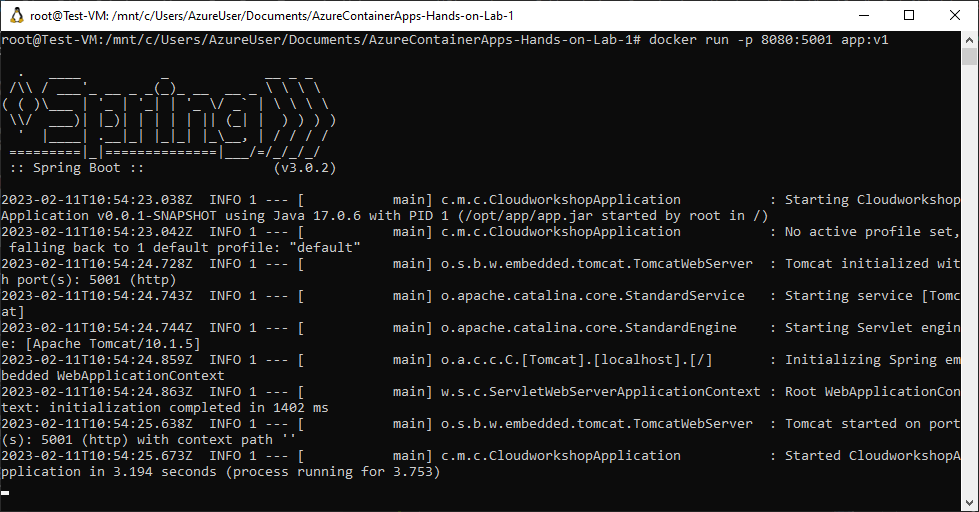
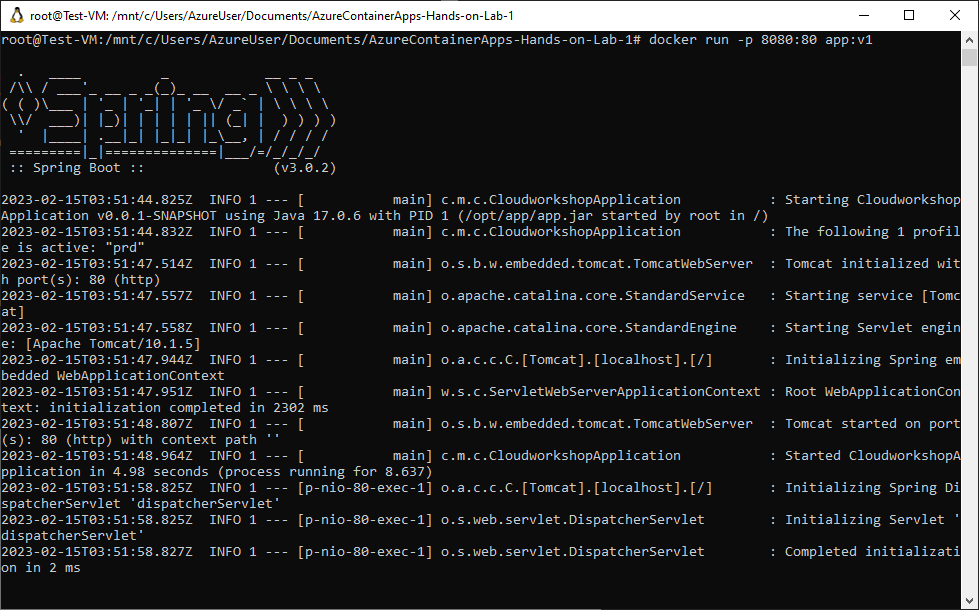
Exe4まで完了

diff --git a/src/Java/Web/src/main/resources/templates/home/index.html b/src/Java/Web/src/main/resources/templates/home/index.html
@@ -10,8 +10,8 @@
                     SpringBoot</a>.</p>
 
             <br />
-            <img src="images/blue_small.gif" />
-            <p>Version 1</p>
+            <img src="images/yellow_small.gif" />
+            <p>Version 2</p>
         </div>
     </div>
 </body>

diff --git a/HOL step-by-step Guide.md b/HOL step-by-step Guide.md
@@ -204,13 +204,29 @@ Mar. 2023
 <details>
   <summary>Java</summary>
 
-  - Visual Studio Code で src/Java/Web/src/main/com/microsoft/cloudworkshop/CloudworkshopApplication.java を**ダブルクリック**で開く。しばらく待つと下図のように main メソッドの上部に「Run|Debug」が表示される
+  - Visual Studio Code で "**Terminal**" - "**New Terminal**" を選択
 
-    <img src="images/java-run-01.png" />
+  - SpringBoot プロジェクトのディレクトリへ移動
 
-  - main メソッドの上に表示された Run をクリック。起動したらブラウザでhttp://localhost:5001 にアクセス
+    ```
+    cd src/Java/Web
+    ```
 
-    <a href="http://localhost:5001" target="_blank">http://localhost:5001</a>
+  - アプリケーションを実行
+
+    ```
+    ./mvnw spring-boot:run
+    ```
+
+    - ※Spring-Bootのプラグインがインストールしてある場合はつぎの手順でも実行可能。
+      1. Visual Studio Code で src/Java/Web/src/main/com/microsoft/cloudworkshop/CloudworkshopApplication.java を**ダブルクリック**で開く。しばらく待つと下図のように main メソッドの上部に「Run|Debug」が表示される
+
+          <img src="images/java-run-01.png" />
+
+      2.  main メソッドの上に表示された Run をクリック。
+  
+  
+  - 起動したらブラウザでhttp://localhost:5001 にアクセス
 
   - アプリケーションのトップ画面が表示
 
@@ -253,7 +269,7 @@ Mar. 2023
   - パッケージ作成
 
     ```
-    ./mvnw install
+    ./mvnw package
     ```
 
   - target フォルダ内に jar ファイルが生成されていることを確認
@@ -294,7 +310,7 @@ Mar. 2023
 
   - エディタ画面で編集
 
-    9 行目に先の手順で発行した jar ファイルをコピーする操作を追加
+    8 行目に先の手順で発行した jar ファイルをコピーする操作を追加
 
     ```
     COPY src/Java/Web/target/*.jar /opt/app/app.jar
@@ -404,7 +420,7 @@ Mar. 2023
   - docker run コマンドを実行し、作成したイメージからコンテナーを起動
 
     ```
-    docker run -p 8080:5001 app:v1
+    docker run -p 8080:80 app:v1
     ```
 
     ※ コマンドのオプション
@@ -428,14 +444,11 @@ Mar. 2023
 
   ※ コマンドのオプション
 
-    - **-a**: 起動中・停止中を含め、すべてのコンテナを表示
+    - **-a**: 起動中・停止中を含め、すべてのコンテナを表示（Javaの場合は COMMAND の内容が異なる）
 
   <img src="images/docker-run-03.png" />
 
 - 再度、イメージからコンテナーを起動
-
-<details>
-  <summary>C#</summary>
 
   ```
   docker run -d --rm -p 8080:80 app:v1
@@ -450,25 +463,6 @@ Mar. 2023
     - **-p**: ポート マッピング（コンテナの 80 番ポートを 8080 番ポートへマッピング）
 
   <img src="images/docker-run-04.png" />
-
-</details>
-
-<details>
-  <summary>Java</summary>
-
-  ```
-  docker run -d --rm -p 8080:5001 app:v1
-  ```
-
-  ※コマンドのオプション
-
-    - **-d**: デタッチド モードでコンテナを起動
-
-    - **--rm**: コンテナ終了時にコンテナを削除
-
-    - **-p**: ポート マッピング（コンテナの 5001 番ポートを 8080 番ポートへマッピング）
-</details>
-
 
 - 起動中のコンテナーを確認
 
@@ -807,18 +801,9 @@ Mar. 2023
 
 - Web ブラウザが起動し、アプリケーションの画面を表示
 
-  <details>
-    <summary>C#</summary>
+- コンテナー レジストリへプッシュしたアプリケーションが展開されていることを確認
 
-    - コンテナー レジストリへプッシュしたアプリケーションが展開されていることを確認
-
-      <img src="images/cs-pull-image-from-acr.png" />
-  </details>
-
-  <details>
-    <summary>Java</summary>
-
-  </details>
+  <img src="images/cs-pull-image-from-acr.png" />
 
 <br />
 
@@ -881,65 +866,127 @@ Mar. 2023
     ```
     <img src="images/update-application-04.png" />
 
-  - 操作用プロンプトへ移動
+</details>
 
-    ※ 起動していない場合は、デスクトップ上の Ubuntu ショートカットをダブルクリックして起動
+<details>
+  <summary>Java</summary>
 
-    ※ 起動後、マウントされたディレクトリへ移動
+  - Explorer で Spring Boot アプリケーションのディレクトリ（「**src**」-「**Java**」-「**Web**」）を展開
 
-      ```
-      cd /mnt/c/Users/AzureUser/Documents/AzureContainerApps-Hands-on-Lab-1
-      ```
-  - イメージを構築
+  - 「**src**」-「**main**」-「**resources**」-「**templates**」-「**home**」を展開し、「**Index.cshtml**」を選択
 
-    ```
-    docker build -t yourregistry.azurecr.io/app:v2 -f .docker/CS/dockerfile .
-    ```
-
-    ※ yourreregistry.azurecr.io を作成したコンテナー レジストリのログイン サーバーに変更
-
-    <img src="images/update-application-05.png" />
-
-  - イメージの確認
+  - **Index.cshtml** の 13 行目、14 行目をエディタで編集
 
     ```
-    docker images
+        <img src="images/yellow_small.gif" />
+        <p>Version 2</p>
+    ```
+  
+    <img src="images/update-application-java-02.png" />
+
+  - 「**File**」メニューの「**Save**」を選択し、ファイルを保存
+
+  - ローカルでアプリケーションの変更を確認するため、VSCode のターミナルからコマンドを実行
+
+    ```
+    ./mvnw spring-boot:run
     ```
 
-    <img src="images/update-application-06.png" />
+    ※ カレント ディレクトリが **src\Java\Web** であることを確認後にコマンドを実行
 
-  - 動作確認
+    <img src="images/update-application-java-03.png" />
+
+  - ブラウザで変更を確認したら **CTRL+C** でローカル実行を停止
+
+  - VSCode のターミナルでコマンドを実行し、展開のためのファイル セットをディレクトリへ発行
 
     ```
-    docker run --rm -p 8080:80 yourregistry.azurecr.io/app:v2
+    ./mvnw package
     ```
 
-    ※ yourreregistry.azurecr.io を作成したコンテナー レジストリのログイン サーバーに変更
+</details>
 
-    <img src="images/update-application-07.png" />
+- docker 操作用 Linux プロンプトへ移動
 
-  - Web ブラウザを起動し http://localhost:8080 へアクセス
+  ※ 起動していない場合は、デスクトップ上の Ubuntu ショートカットをダブルクリックして起動
 
-    <img src="images/update-application-08.png" />
+  ※ 起動後、マウントされたディレクトリへ移動
 
-  - 操作用のプロンプトで Ctrl + P, Ctrl + C キーを押下し、アプリケーションを終了
+    ```
+    cd /mnt/c/Users/AzureUser/Documents/AzureContainerApps-Hands-on-Lab-1
+    ```
+- イメージを構築
+
+  ※ yourreregistry.azurecr.io を作成したコンテナー レジストリのログイン サーバーに変更
+
+  <details>
+    <summary>C#</summary>
+
+  ```
+  docker build -t yourregistry.azurecr.io/app:v2 -f .docker/CS/dockerfile .
+  ```
+
+  </details>
+
+  <details>
+    <summary>Java</summary>
+
+  ```
+  docker build -t yourregistry.azurecr.io/app:v2 -f .docker/Java/dockerfile .
+  ```
+
+  </details>
+
+
+  <img src="images/update-application-05.png" />
+
+- イメージの確認
+
+  ```
+  docker images
+  ```
+
+  <img src="images/update-application-06.png" />
+
+- 動作確認
+
+  ※ yourreregistry.azurecr.io を作成したコンテナー レジストリのログイン サーバーに変更
+
+  ```
+  docker run --rm -p 8080:80 yourregistry.azurecr.io/app:v2
+  ```
+
+<details>
+  <summary>C#</summary>
+
+  <img src="images/update-application-07.png" />
 
 </details>
 
 <details>
-  <summary>Java/summary>
+  <summary>Java</summary>
+
+  <img src="images/update-application-java-07.png" />
 
 </details>
+
+- Web ブラウザを起動し http://localhost:8080 へアクセス
+
+  <img src="images/update-application-08.png" />
+
+- 操作用のプロンプトで Ctrl + P, Ctrl + C キーを押下し、アプリケーションを終了
+
 
 <br />
 
 - docker push を使用してレジストリへプッシュ
 
+  ※ yourreregistry.azurecr.io を作成したコンテナー レジストリのログイン サーバーに変更
+
   ```
   docker push yourregistry.azurecr.io/app:v2
   ```
 
-  ※ yourreregistry.azurecr.io を作成したコンテナー レジストリのログイン サーバーに変更
 
   <img src="images/update-application-09.png" />
 
@@ -987,18 +1034,9 @@ Mar. 2023
 
 - Web ブラウザが起動し、アプリケーションの画面を表示
 
-  <details>
-    <summary>C#</summary>
+  - v1 イメージのアプリケーションが表示されることを確認
 
-    - v1 イメージのアプリケーションが表示されることを確認
-
-      <img src="images/cs-pull-image-from-acr.png" />
-  </details>
-
-  <details>
-    <summary>Java</summary>
-
-  </details>
+    <img src="images/cs-pull-image-from-acr.png" />
 
 - コンテナー アプリの管理ブレードの左側のメニューから「**リビジョン管理**」を選択
 
@@ -1012,18 +1050,9 @@ Mar. 2023
 
 - Web ブラウザが起動し、アプリケーションの画面を表示
 
-  <details>
-    <summary>C#</summary>
+  - v2 イメージのアプリケーションに変更されたことを確認
 
-    - v2 イメージのアプリケーションに変更されたことを確認
-
-      <img src="images/new-revision-cs.png" />
-  </details>
-
-  <details>
-    <summary>Java</summary>
-
-  </details>
+    <img src="images/new-revision-cs.png" />
 
 <br />
 
